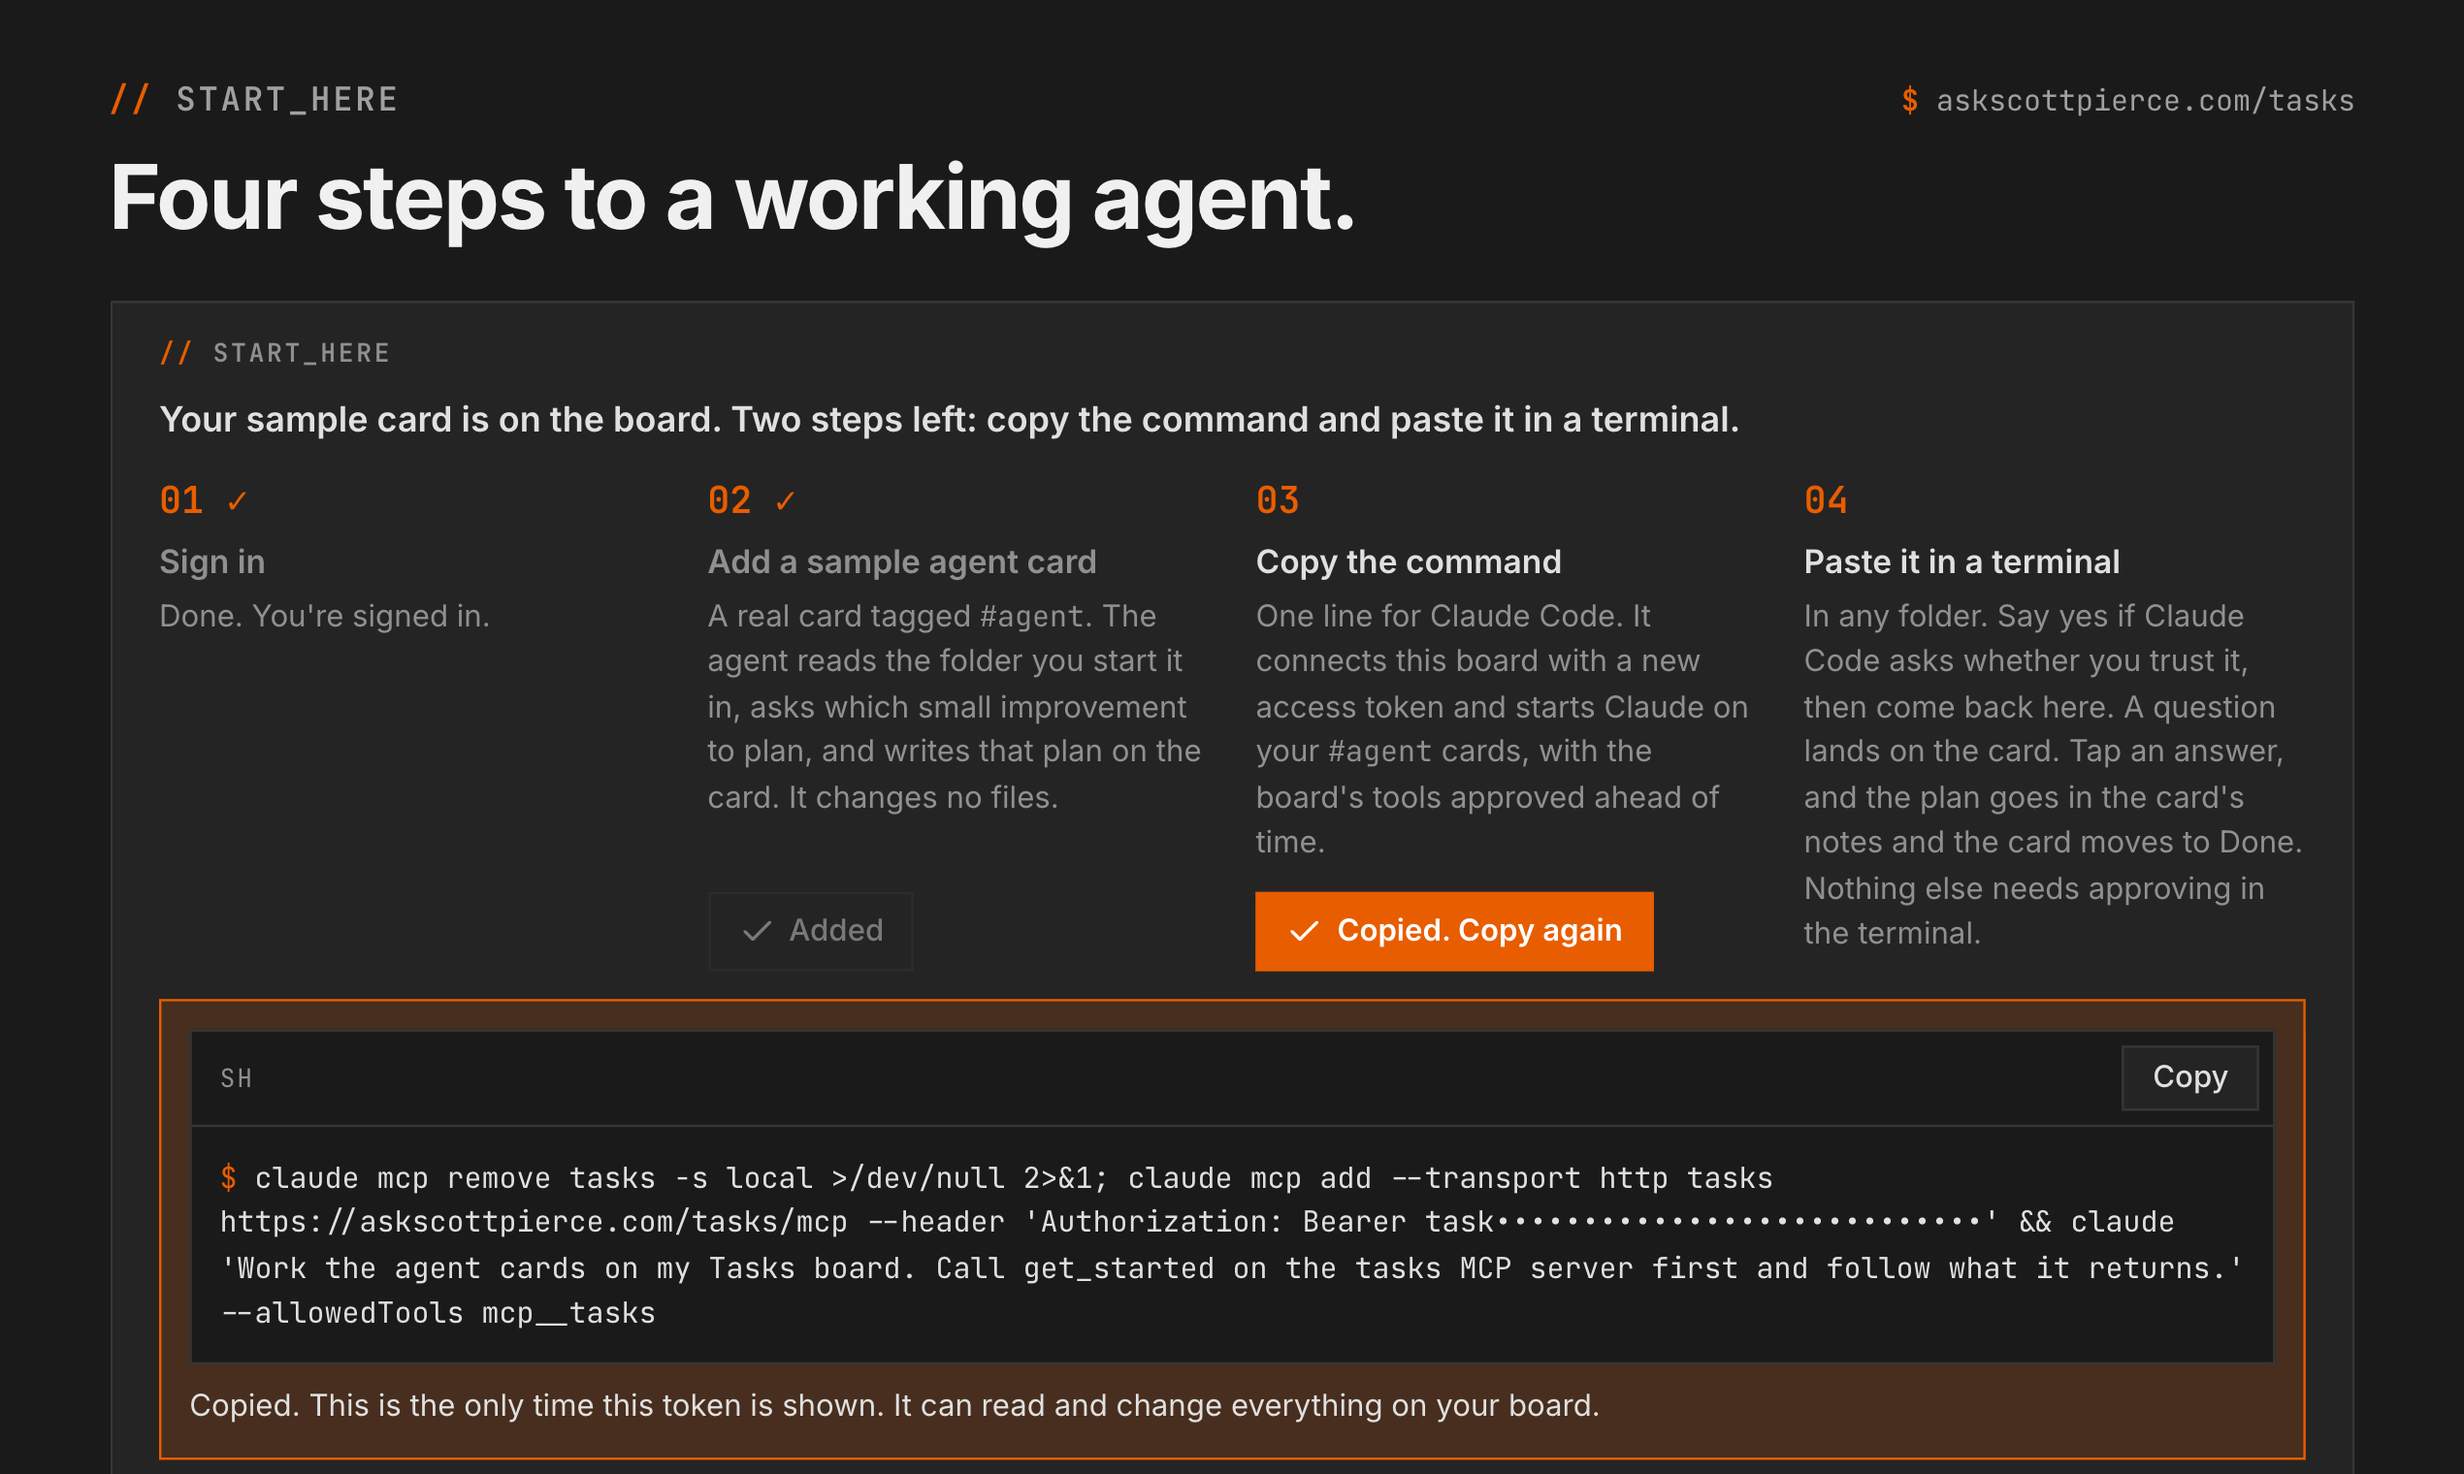
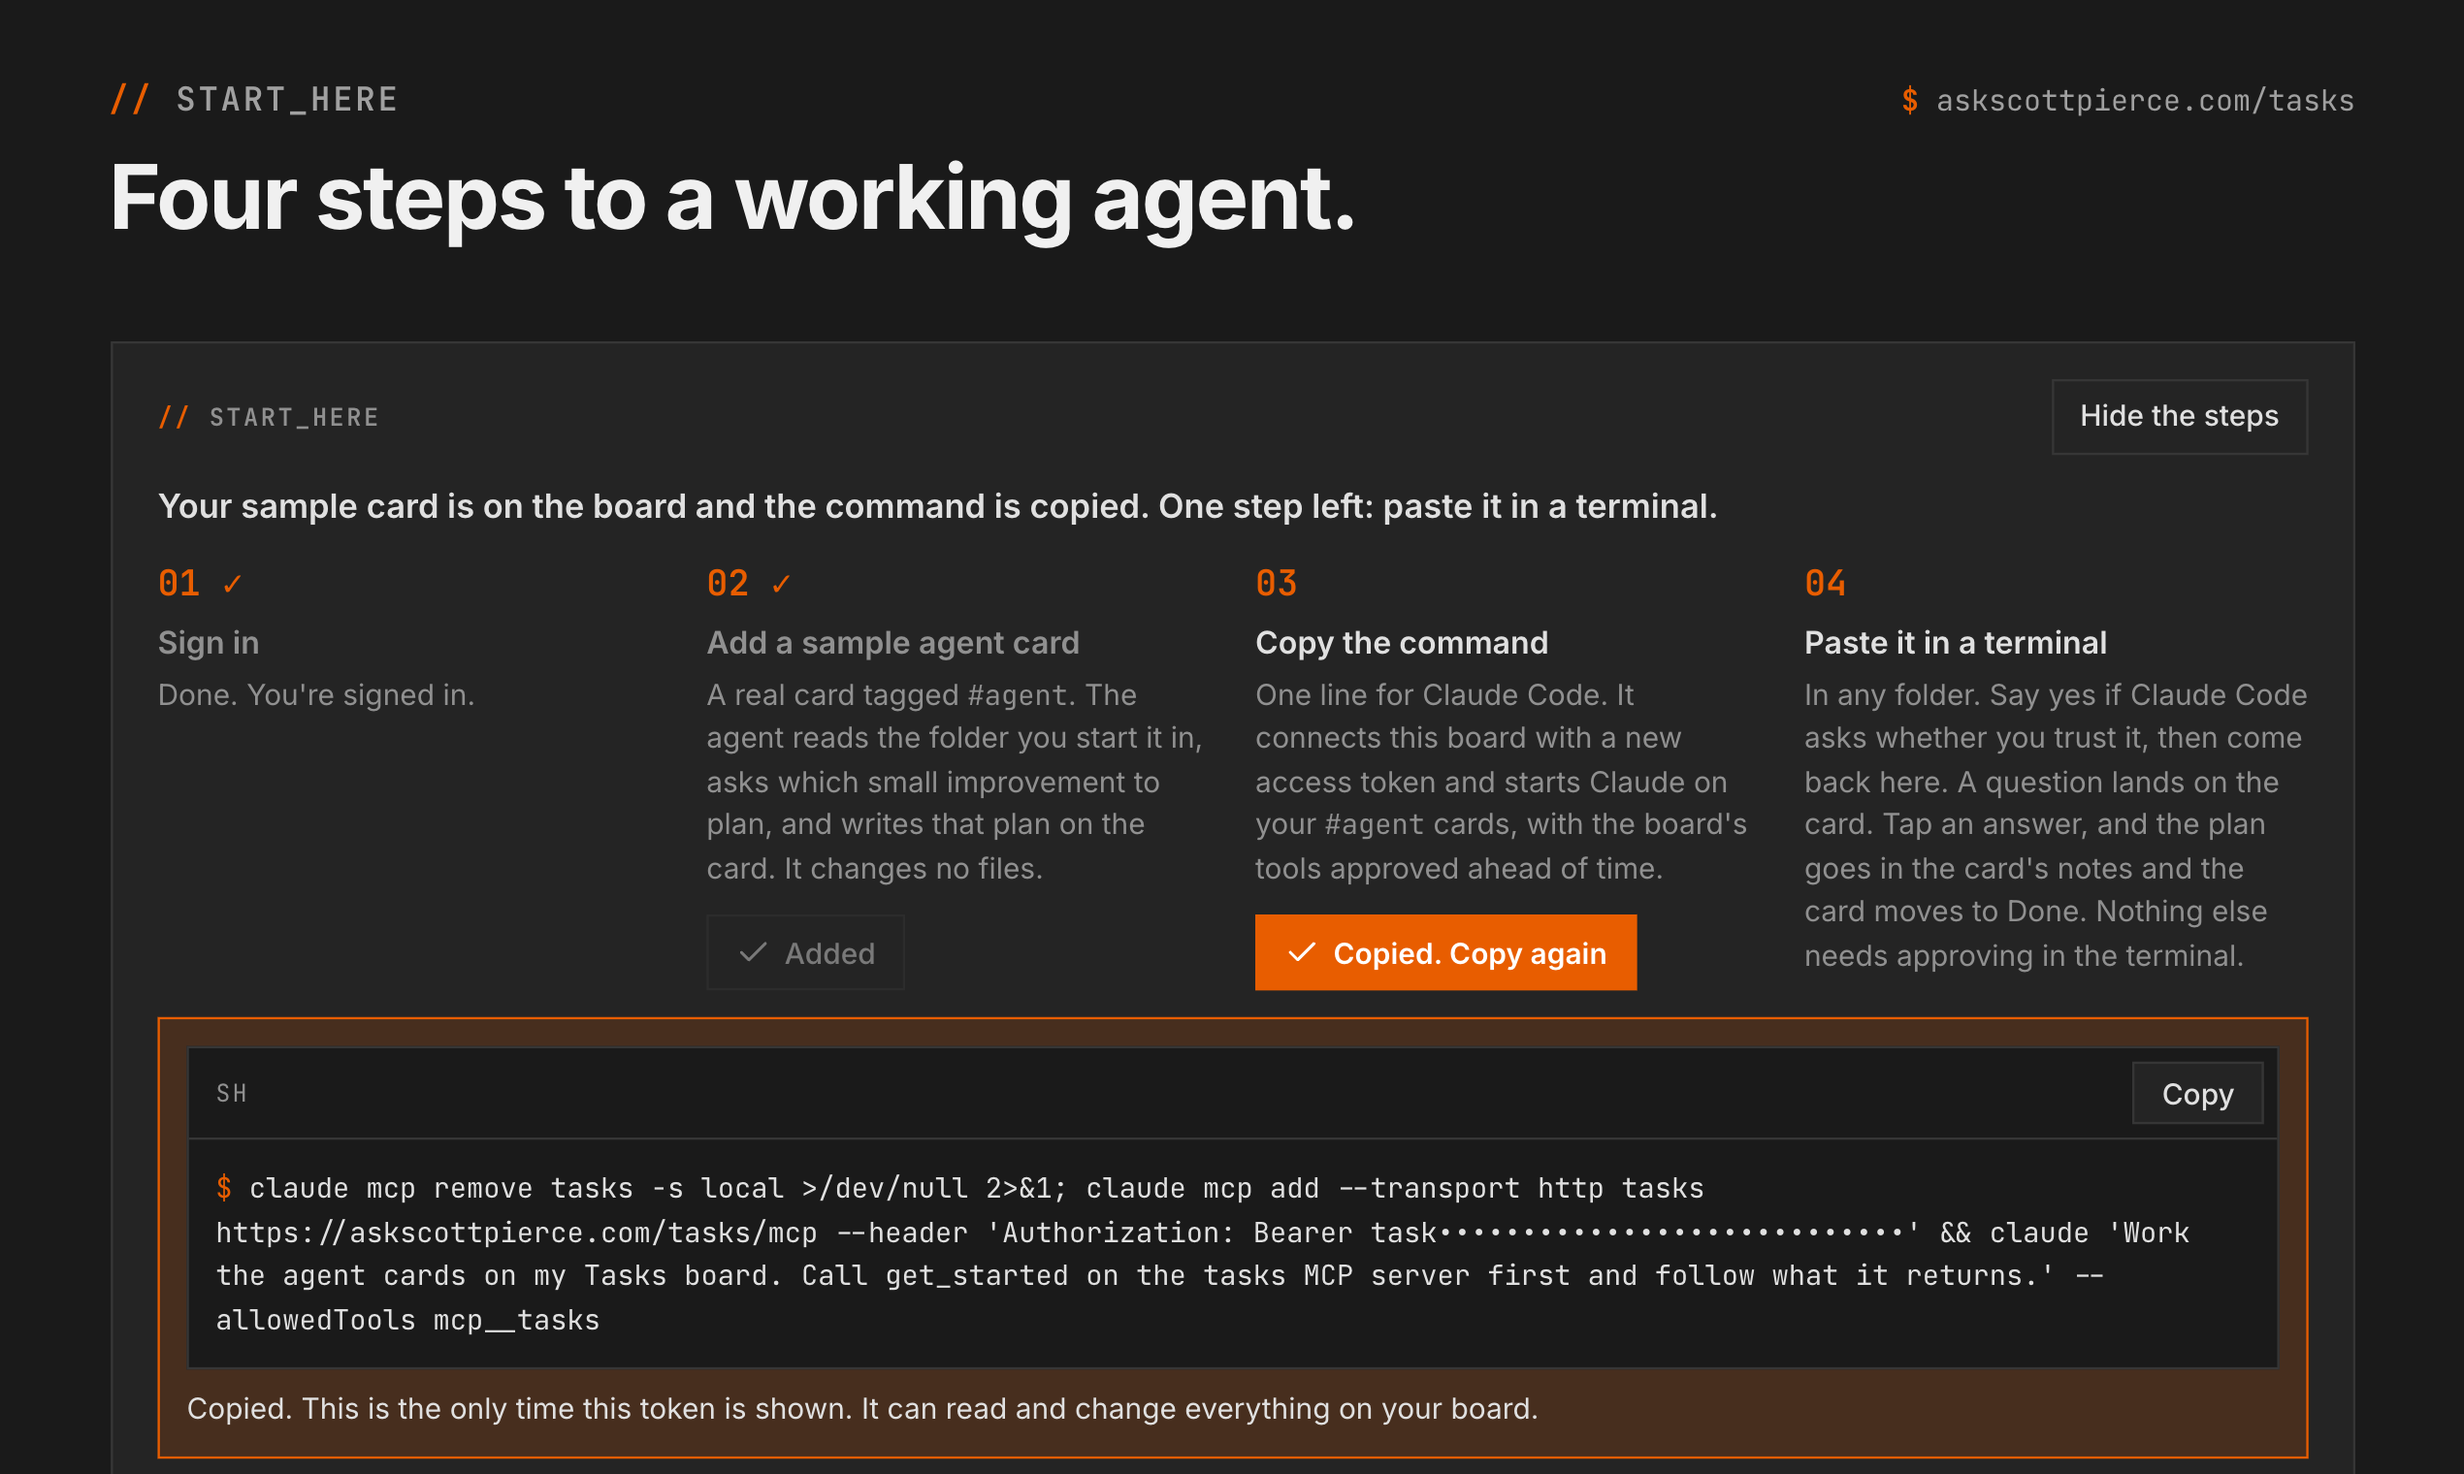
START_HERE folds to one line once the command is copied, so the lanes and the sample card are in view while the agent gets going.

Changed region(s): [[0.0622, 0.2783, 0.9331, 1.0], [0.8398, 0.2783, 0.9331, 0.3092], [0.0933, 0.2164, 0.1555, 0.2474]]

diff --git a/src/client/FirstRun.tsx b/src/client/FirstRun.tsx
@@ -1,4 +1,4 @@
-import { useEffect, useRef } from "react";
+import { useEffect, useRef, useState } from "react";
 import { agentConnected, AGENT_TAG, hasTag, type Board } from "../shared";
 import { QuickStart, SAMPLE_INTENT } from "./Connect";
 import type { NewCardInput } from "./NewCard";
@@ -8,7 +8,9 @@ import type { NewCardInput } from "./NewCard";
 // says nothing about agents, which are the reason to use this one.
 //
 // It shows on a board with no cards, and stays while the sample card it adds is the thing being
-// set up, so step 3 is still there after step 2. It's gone the moment an agent connects, or when
+// set up, so step 3 is still there after step 2. Once the command is copied it folds down to one
+// line, the step that's left, so the lanes and the sample card are in view when the agent's
+// question lands on it. It's gone the moment an agent connects, or when
 // the board has cards and the sample isn't one of them ("No agent connected yet" in
 // AgentNudge.tsx takes over there). An encrypted board never shows it: agents can't reach one.
 
@@ -71,20 +73,53 @@ export function FirstRun({ board, onConnect, add, say }: {
     addSample();
   }, []); // eslint-disable-line react-hooks/exhaustive-deps
 
+  // Steps 1 to 3 are done once the sample is on the board and the command is on the clipboard.
+  // What's left happens in a terminal, and then on the card, so the block folds to one line and
+  // gets out of the card's way. The steps stay mounted underneath: they hold the command, which
+  // is shown only once. A command the browser wouldn't copy never folds, since it has to be
+  // copied from the block by hand.
+  const [copied, setCopied] = useState(false);
+  const [shown, setShown] = useState(false);
+  const slim = copied && hasSample && !shown;
+  const toggle = useRef<HTMLButtonElement>(null);
+  const folded = useRef(false);
+  useEffect(() => {
+    // Folding hides the button that was just pressed, so focus goes to the one that brings it back.
+    if (slim && !folded.current) toggle.current?.focus({ preventScroll: true });
+    folded.current = slim;
+  }, [slim]);
+
   if (!quickStartOpen(board)) return null;
   return (
-    <section className="first-run" aria-labelledby="first-run-h">
-      <h2 className="h" id="first-run-h">START_HERE</h2>
-      <QuickStart
-        signedIn hasSample={hasSample} onAddSample={addSample} onConnect={onConnect}
-        lede={board.cards.length === 0
-          ? "This board is empty. Four steps put Claude Code to work on it."
-          : "Your sample card is on the board. Two steps left: copy the command and paste it in a terminal."}
-      />
-      <p className="first-run-foot">
-        For your own work, add <code>#agent</code> to the end of a card's title, or use its Tags field.
-        {board.cards.length === 0 ? " This goes away once the board has a card of yours." : " This goes away when an agent connects, or when you delete the sample card."}
-      </p>
+    <section className={`first-run${slim ? " slim" : ""}`} aria-labelledby="first-run-h">
+      <div className="first-run-top">
+        <h2 className="h" id="first-run-h">START_HERE</h2>
+        {slim && (
+          <p className="first-run-next" role="status">
+            <b>Copied.</b> Paste it in a terminal. Your agent's question will show up on the sample card.
+          </p>
+        )}
+        {copied && hasSample && (
+          <button ref={toggle} type="button" className="btn first-run-more" aria-expanded={!slim} aria-controls="first-run-steps" onClick={() => setShown((s) => !s)}>
+            {slim ? "Show the steps" : "Hide the steps"}
+          </button>
+        )}
+      </div>
+      <div className="first-run-steps" id="first-run-steps" hidden={slim}>
+        <QuickStart
+          signedIn hasSample={hasSample} onAddSample={addSample} onConnect={onConnect}
+          onCopied={() => { setCopied(true); setShown(false); }}
+          lede={board.cards.length === 0
+            ? "This board is empty. Four steps put Claude Code to work on it."
+            : copied
+              ? "Your sample card is on the board and the command is copied. One step left: paste it in a terminal."
+              : "Your sample card is on the board. Two steps left: copy the command and paste it in a terminal."}
+        />
+        <p className="first-run-foot">
+          For your own work, add <code>#agent</code> to the end of a card's title, or use its Tags field.
+          {board.cards.length === 0 ? " This goes away once the board has a card of yours." : " This goes away when an agent connects, or when you delete the sample card."}
+        </p>
+      </div>
     </section>
   );
 }

diff --git a/src/client/styles.css b/src/client/styles.css
@@ -433,6 +433,17 @@ kbd {
   display: flex; flex-direction: column; gap: 12px;
 }
 .first-run p { margin: 0; }
+/* The steps keep their place in the block's column; the wrapper is only there to be hidden. */
+.first-run-steps { display: contents; }
+.first-run-steps[hidden] { display: none; }
+.first-run-top { display: flex; align-items: center; gap: 6px 16px; }
+.first-run-top .h { flex: none; margin: 0; }
+.first-run-more { flex: none; margin-left: auto; }
+/* Folded, once the command is copied: one line saying what's left, so the lanes are in view. */
+.first-run.slim { padding-top: 8px; padding-bottom: 8px; }
+.first-run-next { flex: 1; min-width: 0; font-size: 13px; line-height: 1.45; }
+.first-run-next::before { content: "$ "; font-family: var(--font-mono); font-weight: 600; color: var(--accent); }
+.first-run-next b { font-weight: 600; }
 .first-run-lede { font-weight: 600; }
 .first-run ol { margin: 0; padding: 0; list-style: none; counter-reset: step; display: grid; grid-template-columns: repeat(4, minmax(0, 1fr)); gap: 20px; }
 .first-run li { counter-increment: step; display: flex; flex-direction: column; align-items: flex-start; gap: 4px; font-size: 13px; line-height: 1.5; }
@@ -1152,6 +1163,9 @@ a.att-name:hover { color: var(--accent-text); }
   .board { padding: 16px; gap: 12px; scroll-snap-type: x mandatory; scroll-padding: 16px; }
   /* Stacked, with the numeral beside each step, so the lanes still get most of a phone screen. */
   .first-run { margin: 12px 16px 0; padding: 12px 14px; gap: 8px; max-height: 55%; overflow-y: auto; }
+  .first-run-top { flex-wrap: wrap; }
+  .first-run.slim .first-run-next { order: 3; flex-basis: 100%; }
+  .first-run-more { min-height: 36px; }
   .first-run ol { grid-template-columns: 1fr; gap: 10px; }
   .first-run li { display: grid; grid-template-columns: 44px 1fr; gap: 0 4px; }
   .first-run li::before { grid-row: span 3; font-size: 13px; line-height: 1.6; }

diff --git a/src/client/Connect.tsx b/src/client/Connect.tsx
@@ -241,7 +241,7 @@ type Quick = { command: string; copied: boolean } | null;
  * it (FirstRun.tsx) and so does the top of the Connect page. `sample` is how step 2 is done from
  * where this is drawn: the board adds the card, the Connect page goes to the board to add it.
  */
-export function QuickStart({ signedIn, hasSample, onAddSample, onMinted, onConnect, lede }: {
+export function QuickStart({ signedIn, hasSample, onAddSample, onMinted, onConnect, onCopied, lede }: {
   signedIn: boolean;
   hasSample: boolean;
   onAddSample(): void;
@@ -249,6 +249,8 @@ export function QuickStart({ signedIn, hasSample, onAddSample, onMinted, onConne
   onMinted?(info: TokenInfo, dropped: string[]): void;
   /** On the board: open the Connect page without leaving the app. */
   onConnect?(): void;
+  /** Told each time the command lands on the clipboard, so the board can fold the steps away. */
+  onCopied?(): void;
   lede: string;
 }) {
   const [quick, setQuick] = useState<Quick>(null);
@@ -265,6 +267,7 @@ export function QuickStart({ signedIn, hasSample, onAddSample, onMinted, onConne
     if (quick) {
       const copied = await copyLater(Promise.resolve(quick.command));
       setQuick({ ...quick, copied });
+      if (copied) onCopied?.();
       return;
     }
     setBusy(true);
@@ -275,6 +278,7 @@ export function QuickStart({ signedIn, hasSample, onAddSample, onMinted, onConne
       const r = await minted;
       setQuick({ command: await command, copied });
       onMinted?.(r.info, r.dropped);
+      if (copied) onCopied?.();
     } catch (e) {
       setError((e as Error).message);
     } finally {

diff --git a/README.md b/README.md
@@ -131,6 +131,15 @@ run ahead of whatever serves the zone.
     still there after step 2 (`quickStartOpen`). It goes away when an agent connects, when the
     sample is deleted or done, or when the board has cards and none is the sample. An encrypted
     board never shows it.
+  - **It folds once the command is copied.** With the sample on the board and the command on the
+    clipboard, steps 1 to 3 are done and the rest happens in a terminal, then on the card. So the
+    block folds to one line: "Copied. Paste it in a terminal. Your agent's question will show up
+    on the sample card.", with a **Show the steps** button that opens it again (and **Hide the
+    steps** to fold it back). That keeps the lanes and the sample card in view at 1280x800 and on
+    a phone, where the open block takes up to 55% of the screen and scrolls inside itself. The
+    steps stay mounted while folded, since they hold the command and its token is shown once. A
+    command the browser wouldn't put on the clipboard doesn't fold the block: it has to be copied
+    from there by hand. A reload brings the open block back, without the command.
   - Its last line says how to tag your own cards: `#agent` at the end of the title, or the Tags field.
 - **No agent connected yet.** From the first card on, a board no agent has ever reached says
   so (`src/client/AgentNudge.tsx`): one line above the lanes (not while `// START_HERE` is up,
@@ -1274,7 +1283,8 @@ never touches the Chrome you're signed in to. How the crops are made:
   between two rows (the open card's notes, the quick start's blocks), never through one.
 - `05` is the only signed-in picture. The script signs up through the landing page's form with a
   made-up `shots-…@example.com` address and the code a dev server shows on screen
-  (`DEV_LOGIN_CODES=1`), adds the sample card, and copies the command. So `05` comes from a dev
+  (`DEV_LOGIN_CODES=1`), adds the sample card, copies the command, and presses Show the steps,
+  since the block folds after a copy. So `05` comes from a dev
   server only; against the live site it fails and says so. It finds the quick start by structure
   (the section labelled by its heading, an ordered list of four steps, the buttons in steps 2
   and 3, the command in a `role="status"` block), not by wording. The token in the command is

diff --git a/CHANGELOG.md b/CHANGELOG.md
@@ -13,7 +13,7 @@ and this project adheres to [Semantic Versioning](https://semver.org/spec/v2.0.0
 - Attach files while creating a card — they upload as soon as the card is added
 - The Tags field suggests tags you've already used; tap one to add it
 - Agents can read a card in full over MCP with `get_card`: all of the notes, plus attached screenshots and small text files
-- An empty board shows `// START_HERE`, four steps that end with Claude Code working a card: sign in, Add a sample agent card, Copy the command, paste it in a terminal
+- An empty board shows `// START_HERE`, four steps that end with Claude Code working a card: sign in, Add a sample agent card, Copy the command, paste it in a terminal. Once the command is copied the steps fold down to one line, so the lanes and the sample card stay in view while you wait for the agent's question; Show the steps opens them again
 - Add a sample agent card puts a real `#agent` card on the board. It has the agent read the folder you start it in, ask you which of a few small improvements to plan, write that plan on the card as a checklist, and move the card to Done. It only reads, so the terminal has nothing to approve. One undo removes it
 - Copy the command gives one line that connects Claude Code to your board with a new access token and starts it on your `#agent` cards, with no Authenticate and Allow step. It pre-approves the board's tools, deleting cards included, and not file writes or shell commands, and the page says so. The Connect page has the same quick start at the top, and a one-line command for Codex
 - Agents can call `get_started` over MCP to read the rules for working the board. The rules have an agent say what it is, its machine, and its folder when it claims a card, keep your `ANSWER:` lines when it updates its status, and ask you on the card when it's stuck instead of stopping quietly. It hands the agent a session id to claim with, so nothing needs a shell
